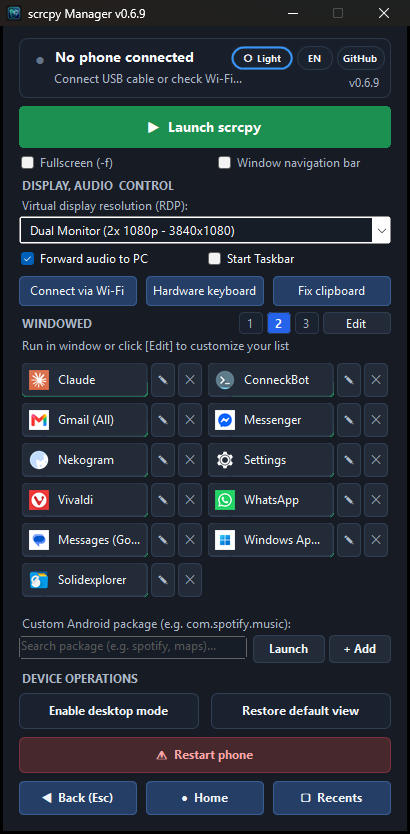
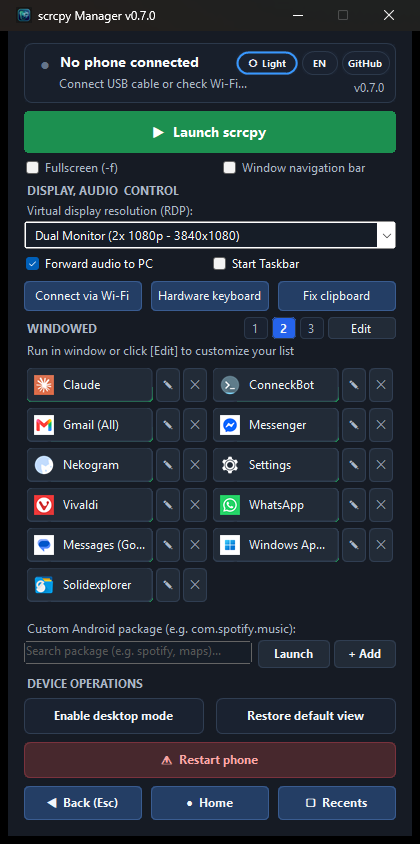
feat: Migracja na .NET 10 (self-contained, single-file), HttpClient i System.Text.Json zamiast przestarzałych API; nowe zrzuty ekranu; wersja 0.7.0

diff --git a/src/UpdateService.cs b/src/UpdateService.cs
@@ -8,7 +8,7 @@ using System.Security.Cryptography;
 using System.Text;
 using System.Text.RegularExpressions;
 using System.Threading.Tasks;
-using System.Web.Script.Serialization;
+using System.Text.Json;
 using System.Windows.Forms;
 
 namespace ScrcpyManager
@@ -29,36 +29,25 @@ namespace ScrcpyManager
 
     public class UpdateService
     {
-        public const string CurrentVersion = "0.6.9";
+        public const string CurrentVersion = "0.7.0";
         public GitHubRelease LatestRelease { get; private set; }
 
         public async Task<bool> CheckForUpdateAsync()
         {
             try
             {
-                ServicePointManager.SecurityProtocol = SecurityProtocolType.Tls12;
-                HttpWebRequest req = (HttpWebRequest)WebRequest.Create("https://api.github.com/repos/tomaasz/scrcpy-manager/releases/latest");
-                req.UserAgent = "scrcpy-manager-desktop";
-                req.Timeout = 6000;
+                string json = await Http.GetStringAsync("https://api.github.com/repos/tomaasz/scrcpy-manager/releases/latest", "scrcpy-manager-desktop", 6000).ConfigureAwait(false);
+                GitHubRelease release = JsonSerializer.Deserialize<GitHubRelease>(json, ConfigStore.JsonOptions);
 
-                using (WebResponse resp = await req.GetResponseAsync())
-                using (Stream stream = resp.GetResponseStream())
-                using (StreamReader sr = new StreamReader(stream))
+                if (release != null && !string.IsNullOrEmpty(release.tag_name))
                 {
-                    string json = await sr.ReadToEndAsync();
-                    JavaScriptSerializer serializer = new JavaScriptSerializer();
-                    GitHubRelease release = serializer.Deserialize<GitHubRelease>(json);
+                    Version vLatest = ParseNormalizedVersion(release.tag_name);
+                    Version vCur = ParseNormalizedVersion(CurrentVersion);
 
-                    if (release != null && !string.IsNullOrEmpty(release.tag_name))
+                    if (vLatest > vCur)
                     {
-                        Version vLatest = ParseNormalizedVersion(release.tag_name);
-                        Version vCur = ParseNormalizedVersion(CurrentVersion);
-
-                        if (vLatest > vCur)
-                        {
-                            LatestRelease = release;
-                            return true;
-                        }
+                        LatestRelease = release;
+                        return true;
                     }
                 }
             }
@@ -250,15 +239,10 @@ namespace ScrcpyManager
 
             try
             {
-                ServicePointManager.SecurityProtocol = SecurityProtocolType.Tls12;
-                using (WebClient wc = new WebClient())
+                Http.DownloadFile(targetAsset.browser_download_url, tempFile, "scrcpy-manager-desktop");
+                if (checksumAsset != null)
                 {
-                    wc.Headers.Add("User-Agent", "scrcpy-manager-desktop");
-                    wc.DownloadFile(targetAsset.browser_download_url, tempFile);
-                    if (checksumAsset != null)
-                    {
-                        wc.DownloadFile(checksumAsset.browser_download_url, checksumFile);
-                    }
+                    Http.DownloadFile(checksumAsset.browser_download_url, checksumFile, "scrcpy-manager-desktop");
                 }
 
                 if (!File.Exists(tempFile) || new FileInfo(tempFile).Length < 1000000)

diff --git a/src/IconService.cs b/src/IconService.cs
@@ -241,30 +241,16 @@ namespace ScrcpyManager
             // Metoda 2: Google Play Store fallback dla ikon wektorowych/adaptacyjnych
             try
             {
-                ServicePointManager.SecurityProtocol = SecurityProtocolType.Tls12;
-                HttpWebRequest req = (HttpWebRequest)WebRequest.Create("https://play.google.com/store/apps/details?id=" + Uri.EscapeDataString(package));
-                req.UserAgent = "Mozilla/5.0 (Windows NT 10.0; Win64; x64)";
-                req.Timeout = 3000;
-
-                using (WebResponse resp = await req.GetResponseAsync())
-                using (Stream stream = resp.GetResponseStream())
-                using (StreamReader sr = new StreamReader(stream))
+                string html = await Http.GetStringAsync("https://play.google.com/store/apps/details?id=" + Uri.EscapeDataString(package), "Mozilla/5.0 (Windows NT 10.0; Win64; x64)", 3000).ConfigureAwait(false);
+                Match m = Regex.Match(html, @"(https://play-lh\.googleusercontent\.com/[^""'>\s=]+)");
+                if (m.Success)
                 {
-                    string html = await sr.ReadToEndAsync();
-                    Match m = Regex.Match(html, @"(https://play-lh\.googleusercontent\.com/[^""'>\s=]+)");
-                    if (m.Success)
+                    string imgUrl = m.Groups[1].Value + "=s64";
+                    string localTemp = cachedFile + "." + Guid.NewGuid().ToString("N") + ".tmp";
+                    await Http.DownloadFileAsync(imgUrl, localTemp, "Mozilla/5.0").ConfigureAwait(false);
+                    if (CommitDownloadedIcon(localTemp, cachedFile))
                     {
-                        string imgUrl = m.Groups[1].Value + "=s64";
-                        using (WebClient wc = new WebClient())
-                        {
-                            wc.Headers.Add("User-Agent", "Mozilla/5.0");
-                            string localTemp = cachedFile + "." + Guid.NewGuid().ToString("N") + ".tmp";
-                            await wc.DownloadFileTaskAsync(new Uri(imgUrl), localTemp);
-                            if (CommitDownloadedIcon(localTemp, cachedFile))
-                            {
-                                return true;
-                            }
-                        }
+                        return true;
                     }
                 }
             }

diff --git a/src/Http.cs b/src/Http.cs
@@ -1,0 +1,50 @@
+using System;
+using System.IO;
+using System.Net.Http;
+using System.Threading;
+using System.Threading.Tasks;
+
+namespace ScrcpyManager
+{
+    // Shared HttpClient (replaces the obsolete WebClient/HttpWebRequest).
+    internal static class Http
+    {
+        private static readonly HttpClient Client = new HttpClient { Timeout = TimeSpan.FromMinutes(5) };
+
+        public static async Task<string> GetStringAsync(string url, string userAgent, int timeoutMs)
+        {
+            using (CancellationTokenSource cts = new CancellationTokenSource(timeoutMs))
+            using (HttpRequestMessage req = new HttpRequestMessage(HttpMethod.Get, url))
+            {
+                req.Headers.TryAddWithoutValidation("User-Agent", userAgent);
+                using (HttpResponseMessage resp = await Client.SendAsync(req, cts.Token).ConfigureAwait(false))
+                {
+                    resp.EnsureSuccessStatusCode();
+                    return await resp.Content.ReadAsStringAsync(cts.Token).ConfigureAwait(false);
+                }
+            }
+        }
+
+        public static async Task DownloadFileAsync(string url, string path, string userAgent)
+        {
+            using (HttpRequestMessage req = new HttpRequestMessage(HttpMethod.Get, url))
+            {
+                req.Headers.TryAddWithoutValidation("User-Agent", userAgent);
+                using (HttpResponseMessage resp = await Client.SendAsync(req, HttpCompletionOption.ResponseHeadersRead).ConfigureAwait(false))
+                {
+                    resp.EnsureSuccessStatusCode();
+                    using (Stream source = await resp.Content.ReadAsStreamAsync().ConfigureAwait(false))
+                    using (FileStream target = File.Create(path))
+                    {
+                        await source.CopyToAsync(target).ConfigureAwait(false);
+                    }
+                }
+            }
+        }
+
+        public static void DownloadFile(string url, string path, string userAgent)
+        {
+            Task.Run(() => DownloadFileAsync(url, path, userAgent)).GetAwaiter().GetResult();
+        }
+    }
+}

diff --git a/src/AppTileButton.cs b/src/AppTileButton.cs
@@ -1,4 +1,5 @@
 using System;
+using System.ComponentModel;
 using System.Drawing;
 using System.Drawing.Drawing2D;
 using System.Drawing.Text;
@@ -34,6 +35,7 @@ namespace ScrcpyManager
             UiThemeHelper.ApplyRoundedCorners(this, _borderRadius);
         }
 
+        [Browsable(false), DesignerSerializationVisibility(DesignerSerializationVisibility.Hidden)]
         public Image AppIcon
         {
             get { return _appIcon; }
@@ -47,6 +49,7 @@ namespace ScrcpyManager
             }
         }
 
+        [Browsable(false), DesignerSerializationVisibility(DesignerSerializationVisibility.Hidden)]
         public int IconSize
         {
             get { return _iconSize; }
@@ -60,6 +63,7 @@ namespace ScrcpyManager
             }
         }
 
+        [Browsable(false), DesignerSerializationVisibility(DesignerSerializationVisibility.Hidden)]
         public int IconGap
         {
             get { return _iconGap; }
@@ -73,6 +77,7 @@ namespace ScrcpyManager
             }
         }
 
+        [Browsable(false), DesignerSerializationVisibility(DesignerSerializationVisibility.Hidden)]
         public int PaddingLeft
         {
             get { return _paddingLeft; }
@@ -86,6 +91,7 @@ namespace ScrcpyManager
             }
         }
 
+        [Browsable(false), DesignerSerializationVisibility(DesignerSerializationVisibility.Hidden)]
         public int BorderRadius
         {
             get { return _borderRadius; }
@@ -100,6 +106,7 @@ namespace ScrcpyManager
             }
         }
 
+        [Browsable(false), DesignerSerializationVisibility(DesignerSerializationVisibility.Hidden)]
         public Func<Color> BorderColorProvider
         {
             get { return _borderColorProvider; }

diff --git a/src/ConfigStore.cs b/src/ConfigStore.cs
@@ -1,12 +1,20 @@
 using System;
 using System.IO;
 using System.Text;
-using System.Web.Script.Serialization;
+using System.Text.Json;
 
 namespace ScrcpyManager
 {
     internal static class ConfigStore
     {
+        internal static readonly JsonSerializerOptions JsonOptions = new JsonSerializerOptions
+        {
+            PropertyNameCaseInsensitive = true,
+            AllowTrailingCommas = true,
+            ReadCommentHandling = JsonCommentHandling.Skip,
+            NumberHandling = System.Text.Json.Serialization.JsonNumberHandling.AllowReadingFromString
+        };
+
         public static bool TryLoad<T>(string path, out T value, bool quarantineInvalid = false)
         {
             value = default(T);
@@ -19,7 +27,7 @@ namespace ScrcpyManager
                     if (quarantineInvalid) QuarantineInvalidFile(path);
                     return false;
                 }
-                value = new JavaScriptSerializer().Deserialize<T>(json);
+                value = JsonSerializer.Deserialize<T>(json, JsonOptions);
                 if (value != null) return true;
                 if (quarantineInvalid) QuarantineInvalidFile(path);
                 return false;
@@ -49,7 +57,7 @@ namespace ScrcpyManager
             if (string.IsNullOrEmpty(directory)) throw new ArgumentException("Nieprawidłowa ścieżka konfiguracji.", "path");
             Directory.CreateDirectory(directory);
 
-            string json = new JavaScriptSerializer().Serialize(value);
+            string json = JsonSerializer.Serialize(value, JsonOptions);
             string temp = Path.Combine(directory, Path.GetFileName(path) + "." + Guid.NewGuid().ToString("N") + ".tmp");
             try
             {

diff --git a/src/MainForm.cs b/src/MainForm.cs
@@ -8,7 +8,7 @@ using System.Text;
 using System.Text.RegularExpressions;
 using System.Threading;
 using System.Threading.Tasks;
-using System.Web.Script.Serialization;
+using System.Text.Json;
 using System.Windows.Forms;
 
 namespace ScrcpyManager
@@ -1813,18 +1813,13 @@ namespace ScrcpyManager
             bool shouldOpenStore = false;
             try
             {
-                System.Net.ServicePointManager.SecurityProtocol |= System.Net.SecurityProtocolType.Tls12;
                 string tempDir = Path.GetTempPath();
                 string apkPath = Path.Combine(tempDir, "Taskbar-6.2.2.apk");
 
                 if (!File.Exists(apkPath) || new FileInfo(apkPath).Length < 1000000)
                 {
                     string downloadUrl = "https://github.com/farmerbb/Taskbar/releases/download/207/Taskbar-6.2.2.apk";
-                    using (var client = new System.Net.WebClient())
-                    {
-                        client.Headers.Add("User-Agent", "scrcpy-manager/" + UpdateService.CurrentVersion);
-                        await client.DownloadFileTaskAsync(new Uri(downloadUrl), apkPath);
-                    }
+                    await Http.DownloadFileAsync(downloadUrl, apkPath, "scrcpy-manager/" + UpdateService.CurrentVersion);
                 }
 
                 bool ok = await _adb.InstallPackageAsync(apkPath);

diff --git a/src/AppsEditorForm.cs b/src/AppsEditorForm.cs
@@ -2,7 +2,7 @@ using System;
 using System.Collections.Generic;
 using System.Drawing;
 using System.IO;
-using System.Web.Script.Serialization;
+using System.Text.Json;
 using System.Windows.Forms;
 
 namespace ScrcpyManager

diff --git a/README.pl.md b/README.pl.md
@@ -29,7 +29,7 @@
 
 👉 **[Pobierz ScrcpyManager-Portable.exe (Najnowsze wydanie)](https://github.com/tomaasz/scrcpy-manager/releases)**
 
-* **Zero instalacji i brak zależności**: Zawiera w jednym pliku `scrcpy v5.0.1`, Android Debug Bridge (`adb`) oraz wszystkie biblioteki DLL.
+* **Zero instalacji i brak zależności**: Zawiera w jednym pliku `scrcpy v5.0.1`, Android Debug Bridge (`adb`) oraz wszystkie biblioteki DLL (aplikacja oparta o .NET 10, środowisko dołączone).
 * **Działa od razu**: Uruchamia się na dowolnym komputerze z Windows 10/11 bez potrzeby wcześniejszej instalacji `scrcpy` czy konfiguracji zmiennej `PATH`.
 * **Czysty interfejs**: Brak migających czarnych okien konsoli (natywna aplikacja okienkowa GUI).
 * **Błyskawiczny start**: Po jednokrotnym rozpakowaniu wersjonowana pamięć podręczna, weryfikowana przez SHA-256, startuje w ułamku sekundy (< 0.2 s).

diff --git a/README.de.md b/README.de.md
@@ -29,7 +29,7 @@
 
 👉 **[ScrcpyManager-Portable.exe herunterladen (Neuestes Release)](https://github.com/tomaasz/scrcpy-manager/releases)**
 
-* **Keine Installation & keine Abhängigkeiten**: Enthält `scrcpy v5.0.1`, Android Debug Bridge (`adb`) und alle erforderlichen Bibliotheken in einer einzigen Datei.
+* **Keine Installation & keine Abhängigkeiten**: Enthält `scrcpy v5.0.1`, Android Debug Bridge (`adb`) und alle erforderlichen Bibliotheken in einer einzigen Datei (basiert auf .NET 10, Laufzeit enthalten).
 * **Sofort einsatzbereit**: Läuft auf jedem Windows 10/11 PC ohne vorherige Installation von `scrcpy` oder Anpassung von `PATH`.
 * **Kein Konsolenfenster**: Saubere native Benutzeroberfläche ohne störende schwarze Konsolenfenster.
 * **Blitzschneller Start**: Die versionierte, mit SHA-256 verifizierte Runtime startet in unter 0,2 Sekunden.

diff --git a/README.es.md b/README.es.md
@@ -29,7 +29,7 @@
 
 👉 **[Descargar ScrcpyManager-Portable.exe (Última versión)](https://github.com/tomaasz/scrcpy-manager/releases)**
 
-* **Cero instalación y sin dependencias**: Incluye `scrcpy v5.0.1`, Android Debug Bridge (`adb`) y todas las librerías necesarias en un único archivo ejecutable.
+* **Cero instalación y sin dependencias**: Incluye `scrcpy v5.0.1`, Android Debug Bridge (`adb`) y todas las librerías necesarias en un único archivo ejecutable (basado en .NET 10, runtime incluido).
 * **Listo para usar**: Funciona en cualquier equipo con Windows 10/11 sin necesidad de instalar previamente `scrcpy` ni configurar `PATH`.
 * **Sin ventana de comandos**: Experiencia visual limpia sin ventanas de consola parpadeantes.
 * **Inicio ultrarrápido**: El entorno de ejecución en caché verificado con SHA-256 se inicia en menos de 0,2 segundos.

diff --git a/README.md b/README.md
@@ -29,7 +29,7 @@
 
 👉 **[Download ScrcpyManager-Portable.exe (Latest Release)](https://github.com/tomaasz/scrcpy-manager/releases)**
 
-* **Zero setup & zero dependencies**: Bundles `scrcpy v5.0.1`, Android Debug Bridge (`adb`), and all required libraries inside a single standalone executable.
+* **Zero setup & zero dependencies**: Bundles `scrcpy v5.0.1`, Android Debug Bridge (`adb`), and all required libraries inside a single standalone executable (built on .NET 10, runtime included).
 * **No installation**: Runs immediately on any Windows 10/11 computer without installing `scrcpy` or modifying system `PATH`.
 * **Zero console window**: Clean native desktop GUI experience with no flashing command prompts.
 * **Instant subsequent starts**: Versioned cached runtime verified with SHA-256 starts in under 0.2s.
